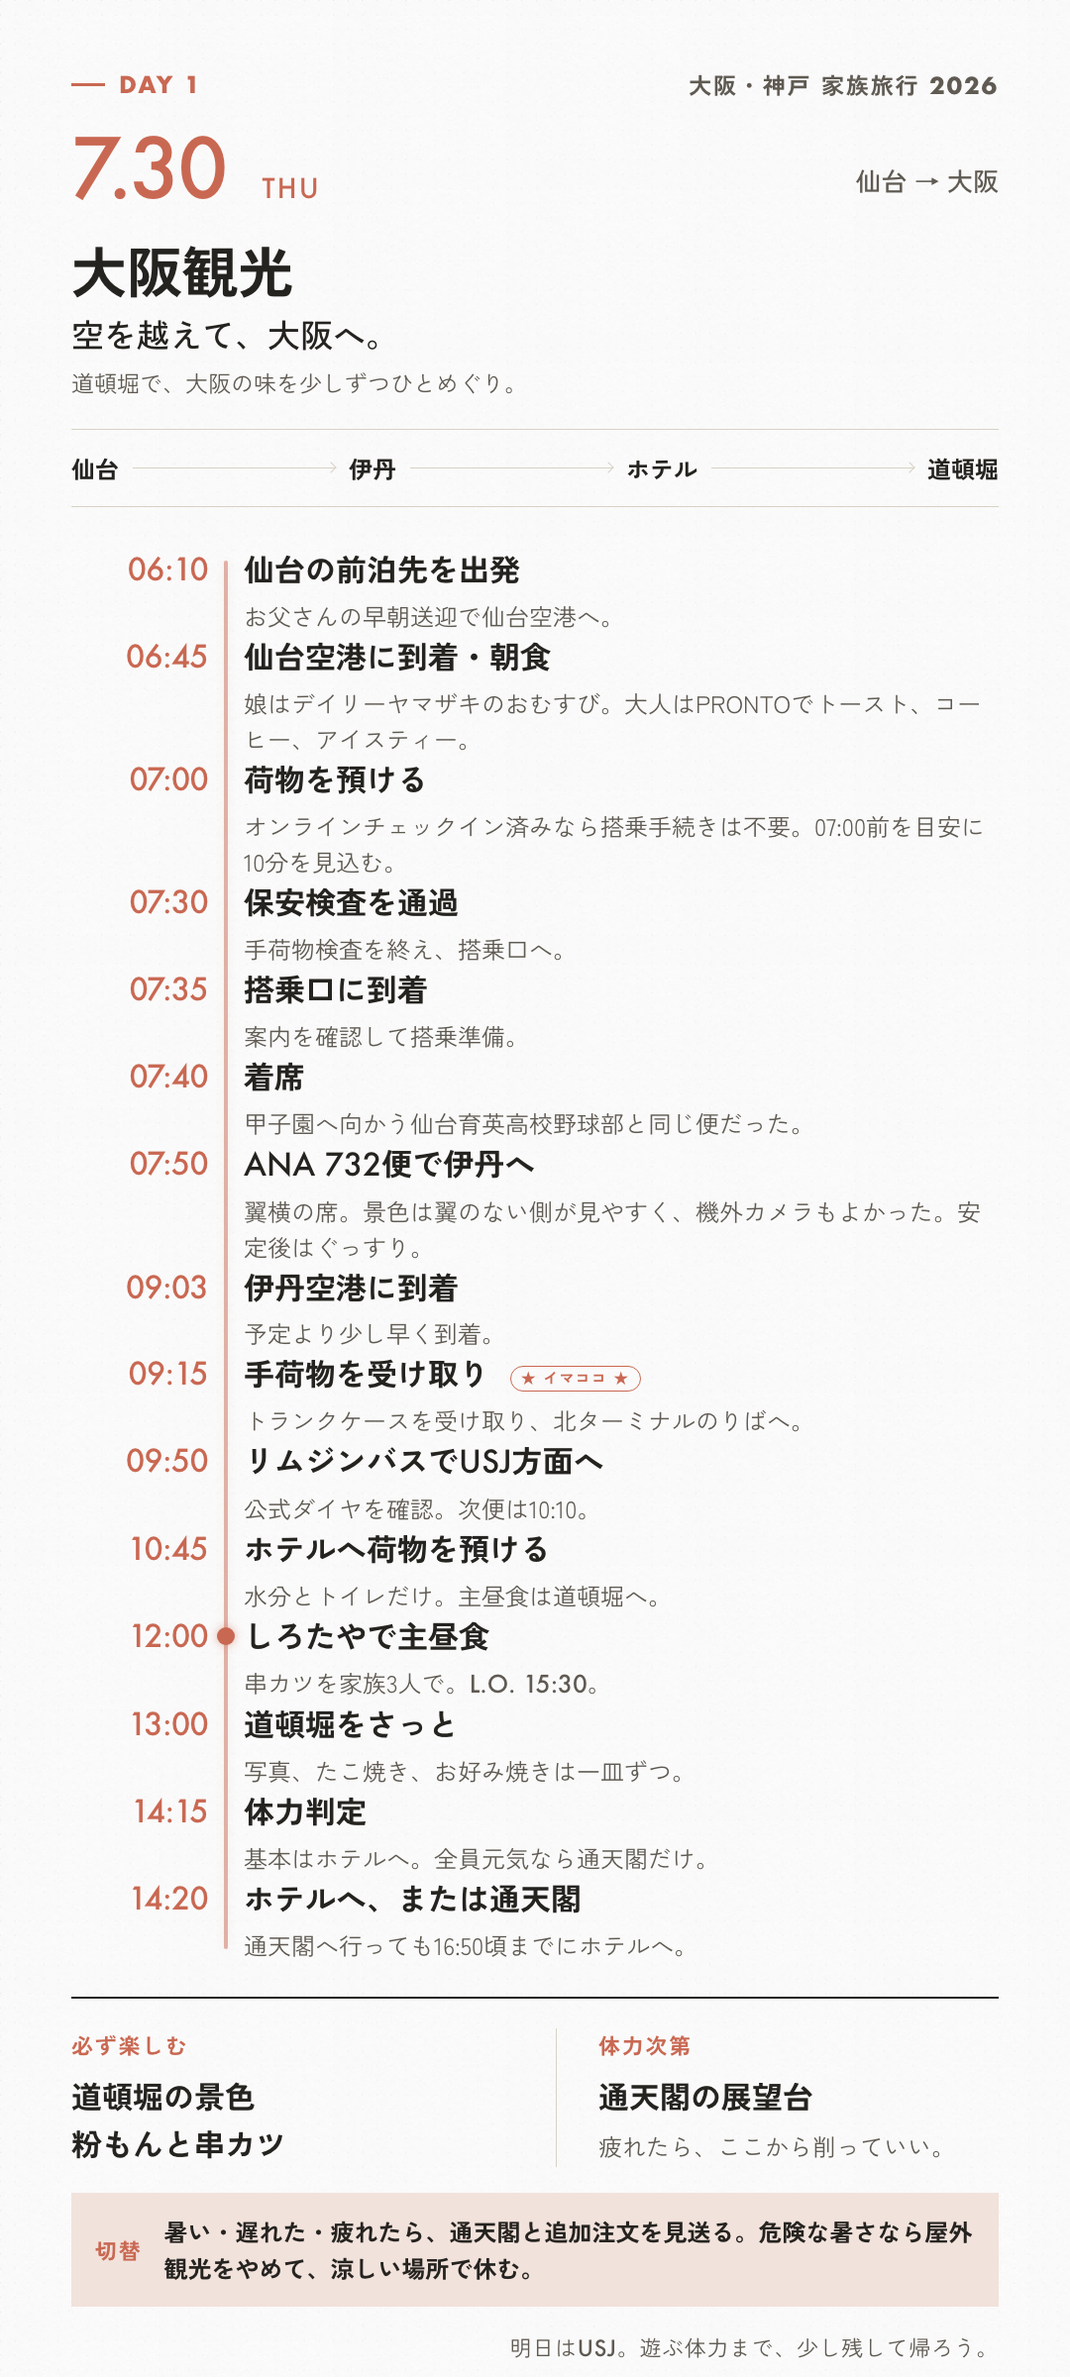
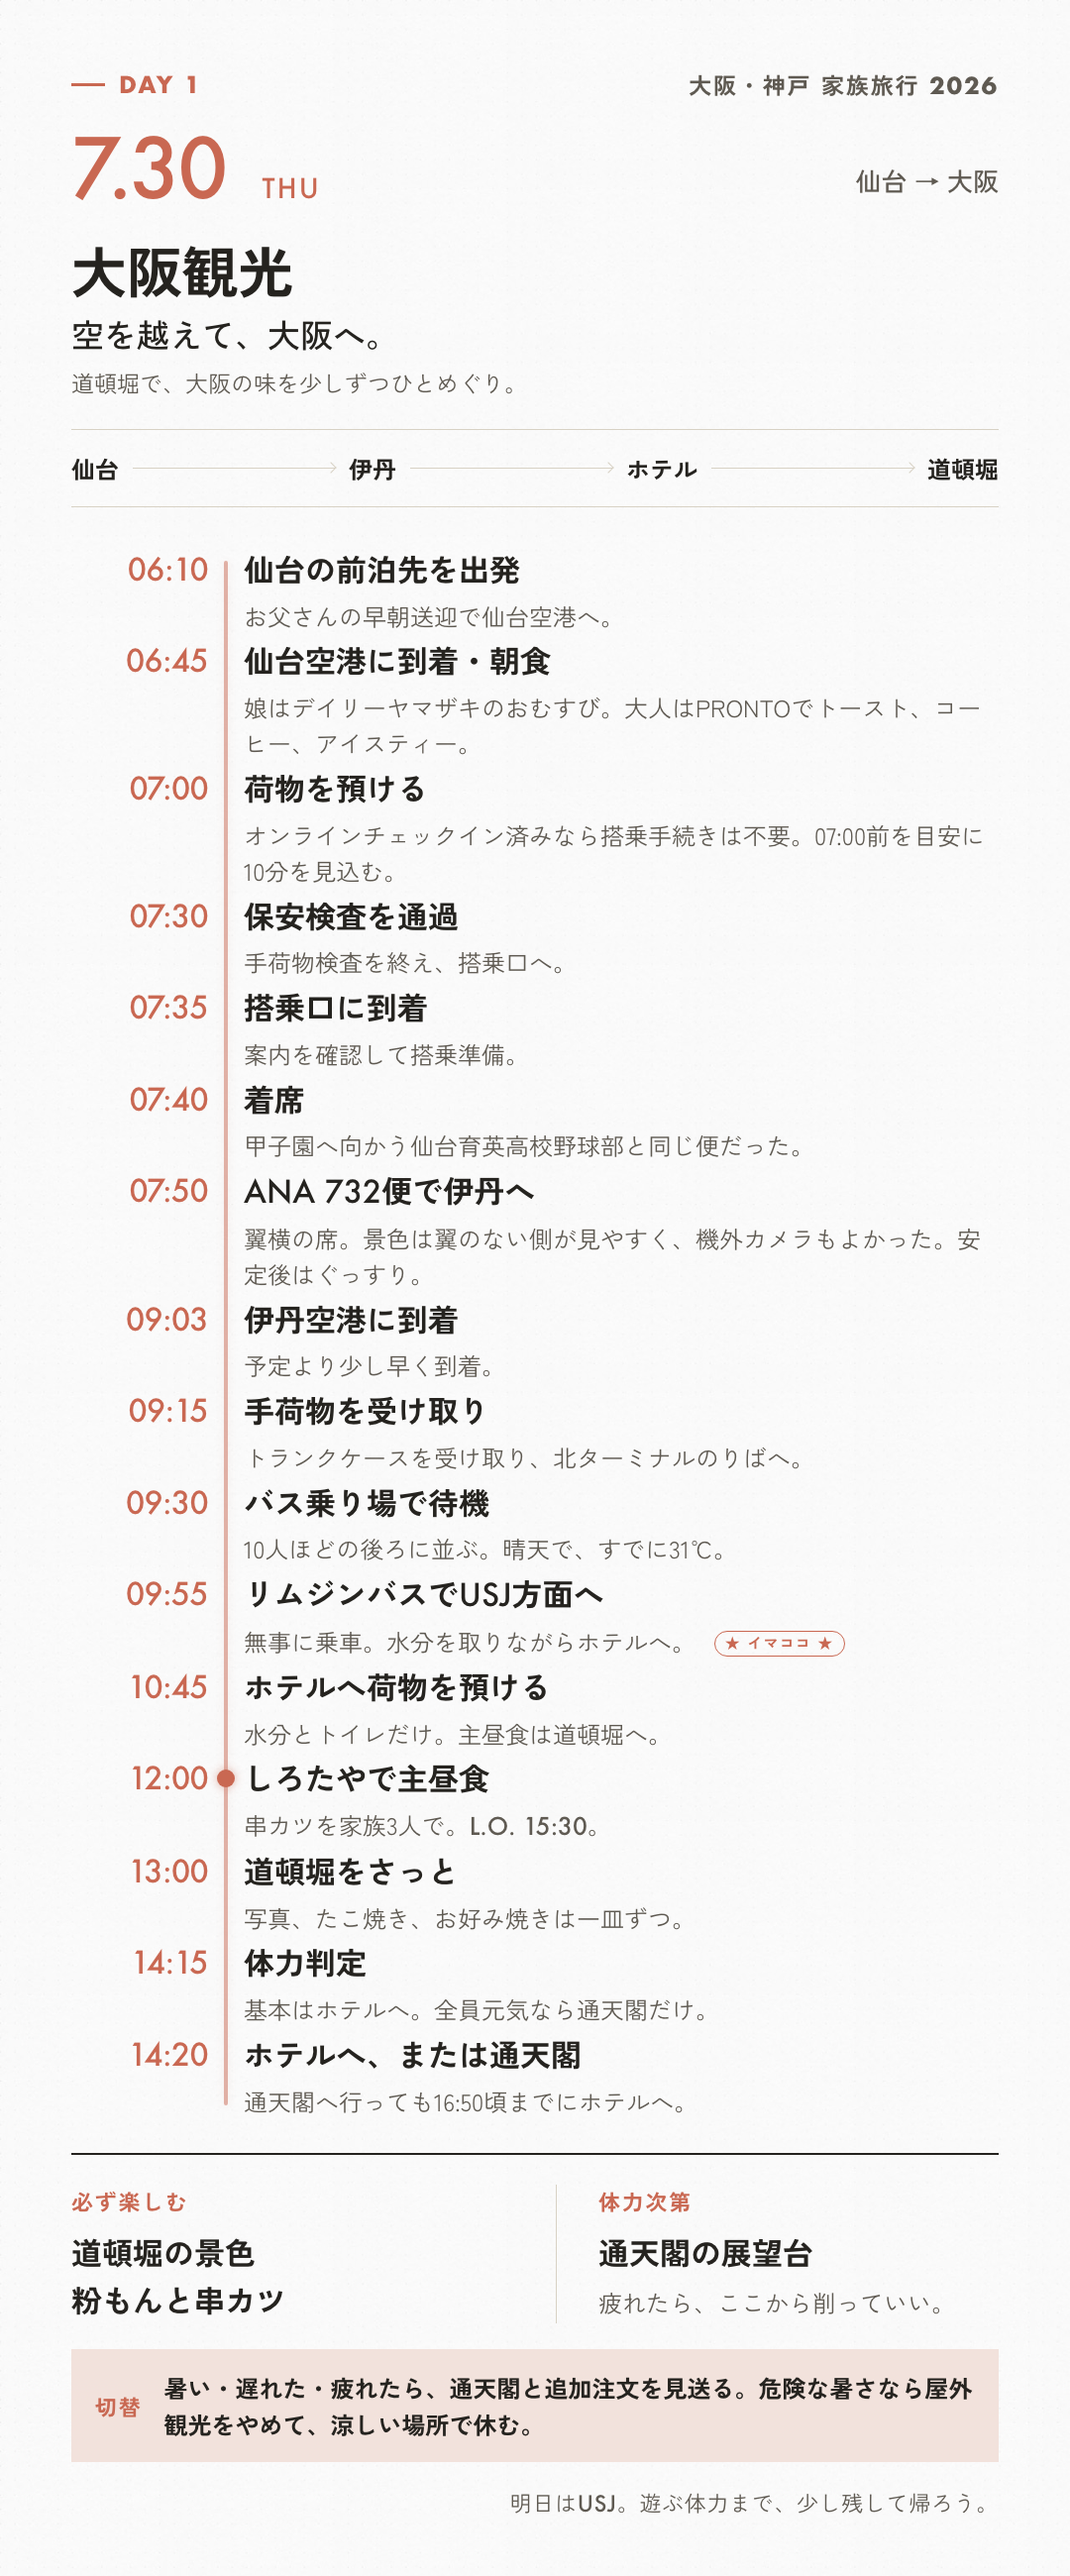
Show current bus boarding status

diff --git a/docs/trip-plan.html b/docs/trip-plan.html
@@ -167,15 +167,22 @@
             <div class="timeline__item">
               <time>09:15</time>
               <div>
-                <h3>手荷物を受け取り <span class="now-marker">★ イマココ ★</span></h3>
+                <h3>手荷物を受け取り</h3>
                 <p>トランクケースを受け取り、北ターミナルのりばへ。</p>
               </div>
             </div>
             <div class="timeline__item">
-              <time>09:50</time>
+              <time>09:30</time>
               <div>
-                <h3>リムジンバスでUSJ方面へ</h3>
-                <p>公式ダイヤを確認。次便は10:10。</p>
+                <h3>バス乗り場で待機</h3>
+                <p>10人ほどの後ろに並ぶ。晴天で、すでに31℃。</p>
+              </div>
+            </div>
+            <div class="timeline__item">
+              <time>09:55</time>
+              <div>
+                <h3>リムジンバスでUSJ方面へ <span class="now-marker">★ イマココ ★</span></h3>
+                <p>無事に乗車。水分を取りながらホテルへ。</p>
               </div>
             </div>
             <div class="timeline__item">

diff --git a/docs/index.html b/docs/index.html
@@ -117,7 +117,7 @@
               src="guide/day-1.png"
               alt="7月30日、大阪観光日のしおり"
               width="1080"
-              height="2400"
+              height="2600"
               loading="lazy"
             />
           </figure>
